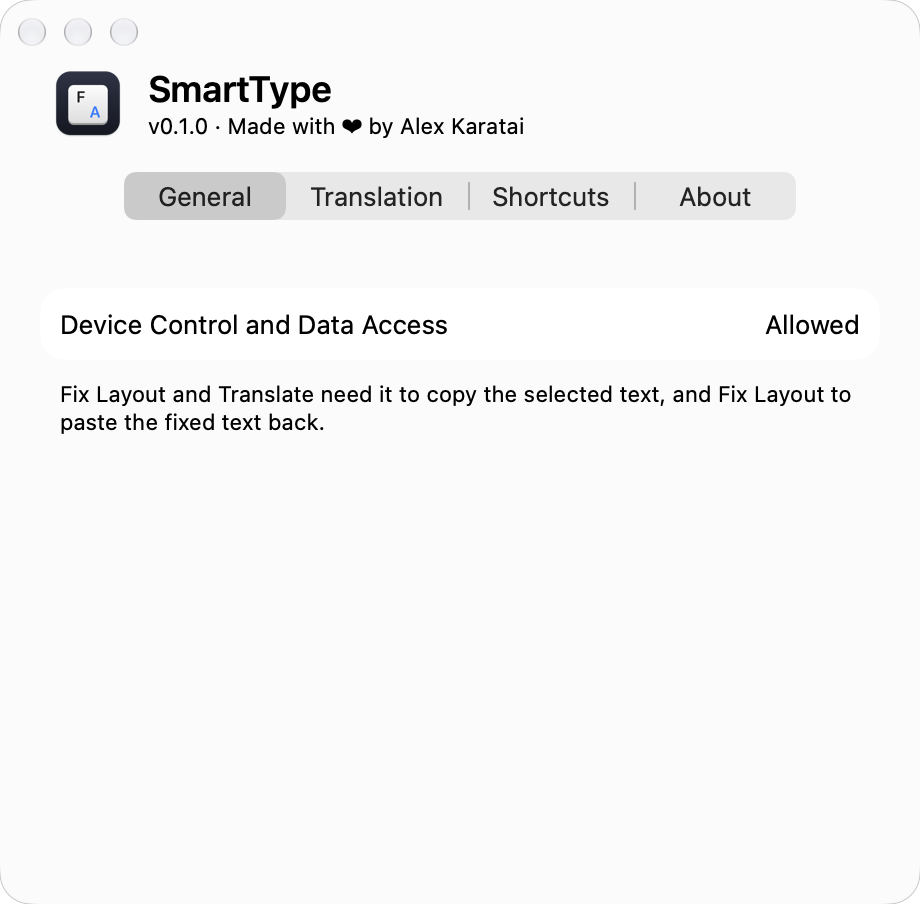
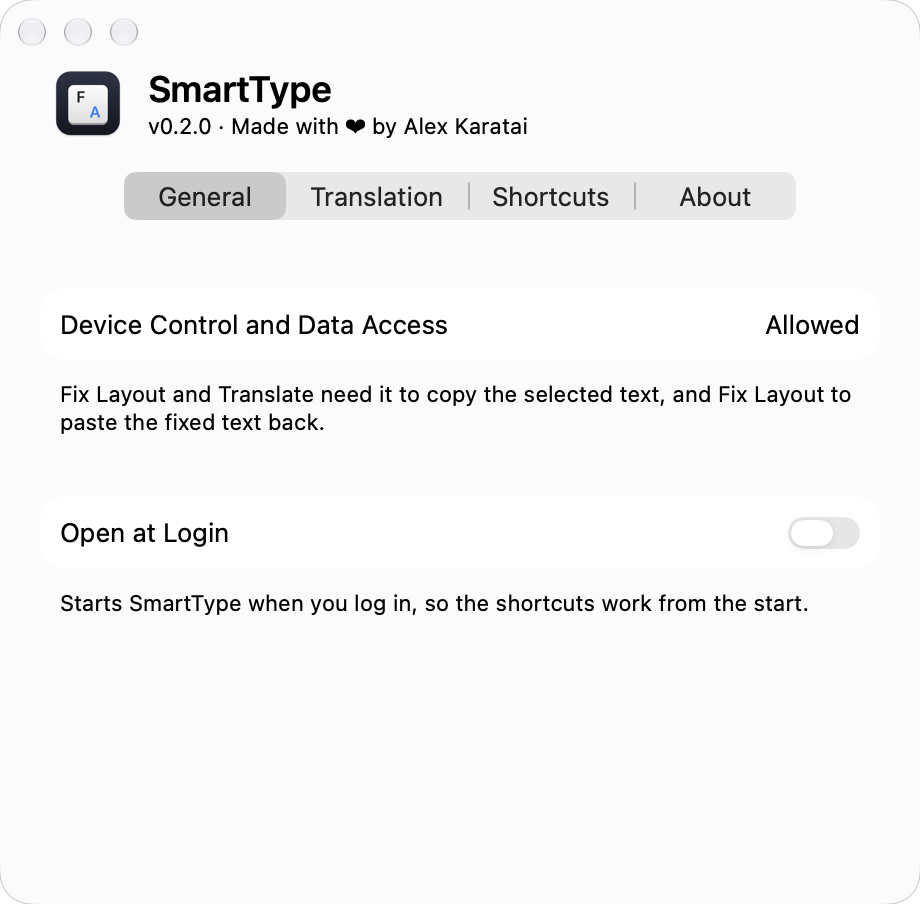
Bump version to 0.2.0 in CHANGELOG, Makefile, README, and Info.plist; update settings screenshot

diff --git a/README.md b/README.md
@@ -9,7 +9,7 @@
 </p>
 
 <p align="center">
-  <img src="https://img.shields.io/badge/version-0.1.0-blue?style=flat-square" alt="Version 0.1.0"/>
+  <img src="https://img.shields.io/badge/version-0.2.0-blue?style=flat-square" alt="Version 0.2.0"/>
   <img src="https://img.shields.io/badge/macOS-14.0%2B-000000?style=flat-square&logo=apple&logoColor=white" alt="macOS 14+"/>
   <img src="https://img.shields.io/badge/Apple%20silicon-only-000000?style=flat-square" alt="Apple silicon only"/>
   <img src="https://img.shields.io/badge/Swift-6.2-F05138?style=flat-square&logo=swift&logoColor=white" alt="Swift 6.2"/>

diff --git a/CHANGELOG.md b/CHANGELOG.md
@@ -7,6 +7,8 @@ and this project adheres to [Semantic Versioning](https://semver.org/spec/v2.0.0
 
 ## [Unreleased]
 
+## [0.2.0] — 2026-10-13
+
 ### Added
 
 - **Open at Login.** Settings ▸ General has a switch that starts SmartType when you log in, so
